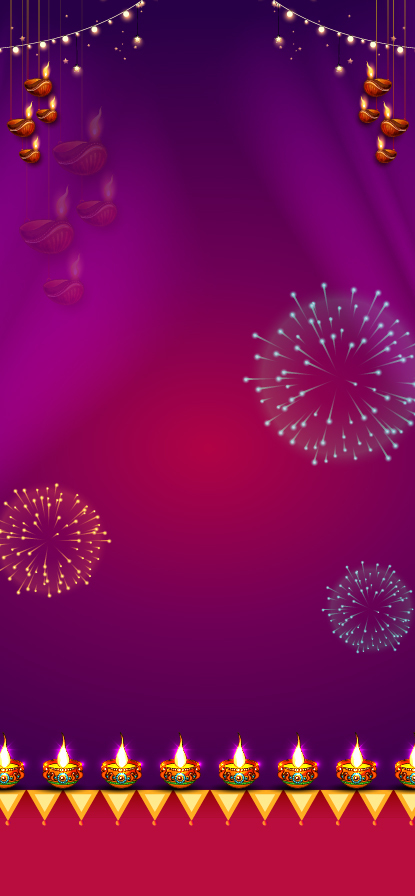
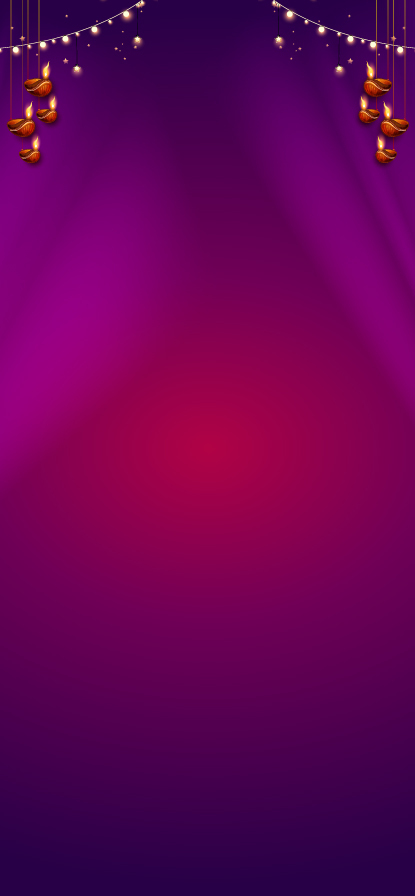
changes

diff --git a/css/display.css b/css/display.css
@@ -123,7 +123,7 @@ body{
     display: inline-block;
     padding: 5px 13px;
     padding-right: 23px;
-    margin-top: 10px;
+    margin-top: 15px;
     color: wheat;
     border-top-right-radius: 15px;
     position: relative;
@@ -157,15 +157,15 @@ body{
 }
 .release-table td{
     color: white;
-    border: 1px solid white;
+    border: 1px solid #ffae21;
     text-align: center;
     padding: 3px;
     font-size: 13px;
     padding: 1px;
-    background: black;
+    background: #b40c36;
     color: white;
     width: 20%;
-    height: 50px;
+    height: 32px;
 }
 
 .select-tag{
@@ -197,8 +197,11 @@ body{
 .leaderboard-fetch{
     width:100%;
 }
+.leaderboard-fetch{
+    border:1px solid #ffae21;
+}
 .leaderboard-fetch th{
-    background: black;
+    background: #b80d3d;
     color: white;
     padding: 5px;
     font-weight: 100;
@@ -216,9 +219,6 @@ body{
 }
 .web{
     display:block;
-}
-.show-ticket{
-    display:none;
 }
 
 #weavy-messenger-container {
@@ -249,10 +249,18 @@ body{
     padding-top:61%;
 }
 .bottom-gif{
-    position: absolute;
+    position: fixed;
     bottom: 0px;
     width: 100%;
-    z-index: 10;
+    z-index: 999;
+}
+.notice{
+    background: white;
+    padding: 5px 15px;
+    /* border-radius: 10px; */
+    font-size: 18px;
+    width: max-content;
+    margin: 0 auto;
 }
 
 @media (min-width:100px) and (max-width:500px){
@@ -318,5 +326,8 @@ body{
     .ticket-container{
         display:none;
     }
+     .tickit-and-display{
+        padding-bottom: 200px;
+     }
    }
  

diff --git a/css/create.css b/css/create.css
@@ -52,6 +52,7 @@ body{
     border: 1px solid white;
     text-align: center;
     padding: 3px;
+    cursor: pointer;
 }
 .autogenerate{
     font-size: 15px;
@@ -121,7 +122,17 @@ body{
     padding-left:0px;
     padding-right:0px;
 }
-
+.rules-button{
+    font-size: 18px;
+    color: black;
+    float: right;
+    margin-right: 20px;
+    /* position: relative; */
+    margin-top: -30px;
+    background: white;
+    width: max-content;
+    padding: 5px 10px;
+}
 
 
 @media (min-width:100px) and (max-width:500px){
@@ -161,5 +172,9 @@ body{
     .off{
         font-size:7px;
     }
+    .rules-button{
+        float:unset;
+        margin:0 auto;
+     }
    }
  

diff --git a/create.php b/create.php
@@ -85,6 +85,10 @@ include_once '../admin_assets/triggers-new.php';
 <div class="col-md-12 text-center">
     <!-- <img src="img/feeling_lucky.png" class="feeling-lucky"/> -->
      <div class="feeling-lucky-title">Feeling Lucky ?</div>
+     <div class="col-md-12">
+     <div class="rules-button text-center">Rules</div>
+     </div>
+
 </div>
 <div class="col-md-10 col-md-offset-1 page-rule-container">
     <div class="page-rule-title">Follow the 2 steps below, try your luck and win!</div>
@@ -110,7 +114,7 @@ echo "</tr>";
 </div>
 </div>
 
-<div class="col-md-7">
+<div class="col-md-7 nopadding-mob">
 <div class="col-md-12 nopadding-mob">
     <div class="col-md-12 text-center ticket-container">
         <div id="ticket-box">
@@ -197,8 +201,8 @@ var virtualArray=[];
                  }
                  for(var i=0; i<wordsdiv; i++){
                     $(".default-words td").removeAttr("capture");
-                    $(".default-words td").css("background","white");
-                    $(".default-words td").css("color","black");
+                    $(".default-words td").css("background","transparent");
+                    $(".default-words td").css("color","white");
                  }
         }
 
@@ -275,6 +279,12 @@ while(uniqueNumbers.length < 12){
     }
 }
 
+$(".rules-button").click(function(){
+    emPop("", {
+                  reload: false
+                });
+});
+
 
 $(".create-ticket").click(function(){
         collectAnswers=[];
@@ -307,17 +317,11 @@ $(".create-ticket").click(function(){
             console.log(data);
             var data = JSON.parse(data);
                     if(data.success){
-                           if(data.isdemo){
-                                swal("Subscribe to any PLAN to play with your peers.", "", "success").then(() => {
-                                location.reload();
-                              });
-                       }else{
-                                location.reload();
-                         }
-                }else{
+                         location.href=("create.php");
+                     }else{
                    swal("",data.error,"error")
-                    }
-        } 
+              }
+         } 
     });    
         }
     });

diff --git a/display.php b/display.php
@@ -87,7 +87,7 @@ include_once '../admin_assets/triggers-new.php';
     <div class="action-button show-ticket" action-data="ticket"><img src="images/icon-claim.png"/><span>Show Ticket</span></div>
 </div>
 </div>
-<div class="col-md-6 nopadding-web nopadding-mob">
+<div class="col-md-6 tickit-and-display nopadding-web nopadding-mob">
 <div class="col-md-12 nopadding-web text-center ticket-container">
         <div id="ticket-box">
             <div class="off"></div>
@@ -169,7 +169,8 @@ include_once '../admin_assets/triggers-new.php';
 </div>
 </div>
 
-<img src="images/bottom-gif.gif" class="bottom-gif"/>
+<img src="images/bottom-gif.gif" class="bottom-gif desk"/>
+<img src="images/bottom-gif-mob.gif" class="bottom-gif mob"/>
 <script>
 
   
@@ -348,6 +349,14 @@ function fillAllNumbers(){
   window.scrollTo(0, 0);
 }
 
+
+if(responseNumbers==false){
+  $(".ticket-container").html('<div class="notice">Note: You have not created ticket. in time</div>');
+  $(".ticket-container").css("height","auto");
+  $(".action-button").eq(1).hide();
+  $(".action-button").eq(2).hide();
+  $(".action-button").eq(4).hide();
+}
 
     fillAllNumbers();
 

diff --git a/submit-claim.php b/submit-claim.php
@@ -131,9 +131,9 @@ function claimCheck($released,$user_claim,$expectedValue,$check_flow){
                     $claimValid=true;
                 }
             }else{
-            if($claimValue>=$expectedValue){
-                $claimValid=true;
-            }
+                if($claimValue>=$expectedValue){
+                    $claimValid=true;
+                }
             }
         }else if($check_flow=="reverse"){
             if($claimValue==$expectedValue){
